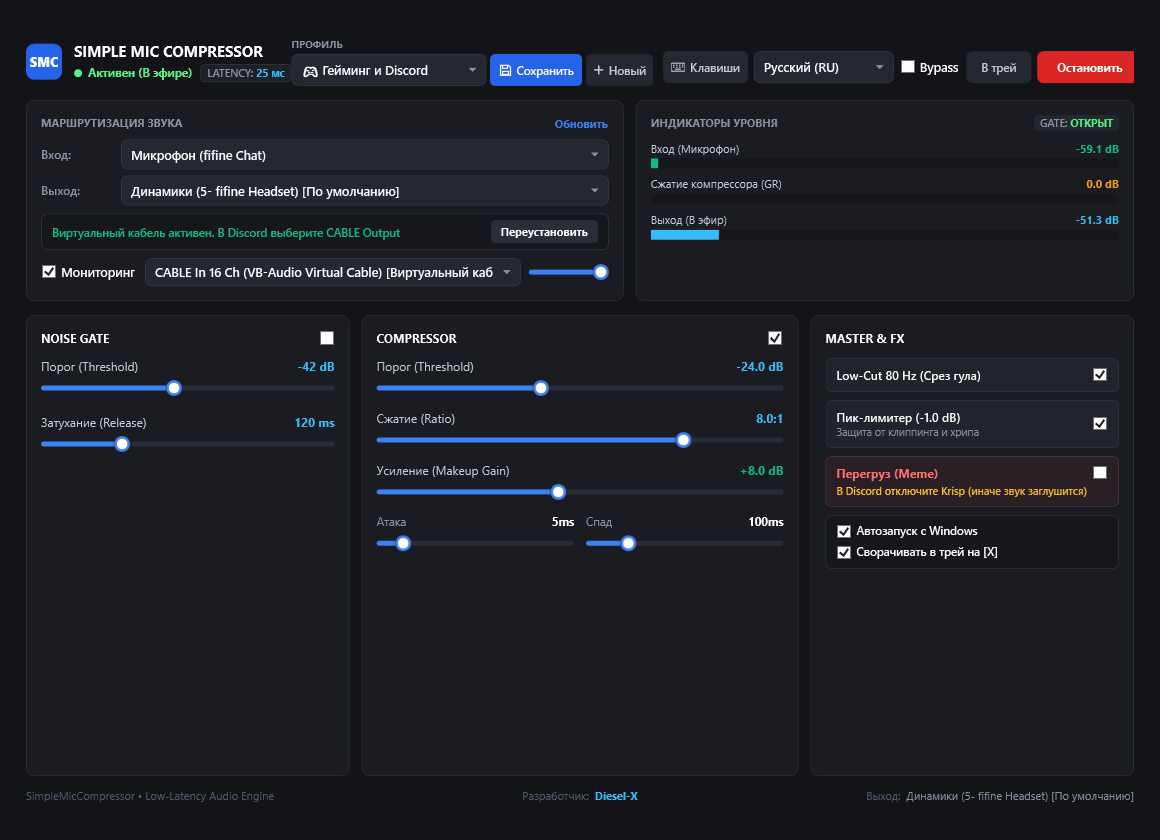
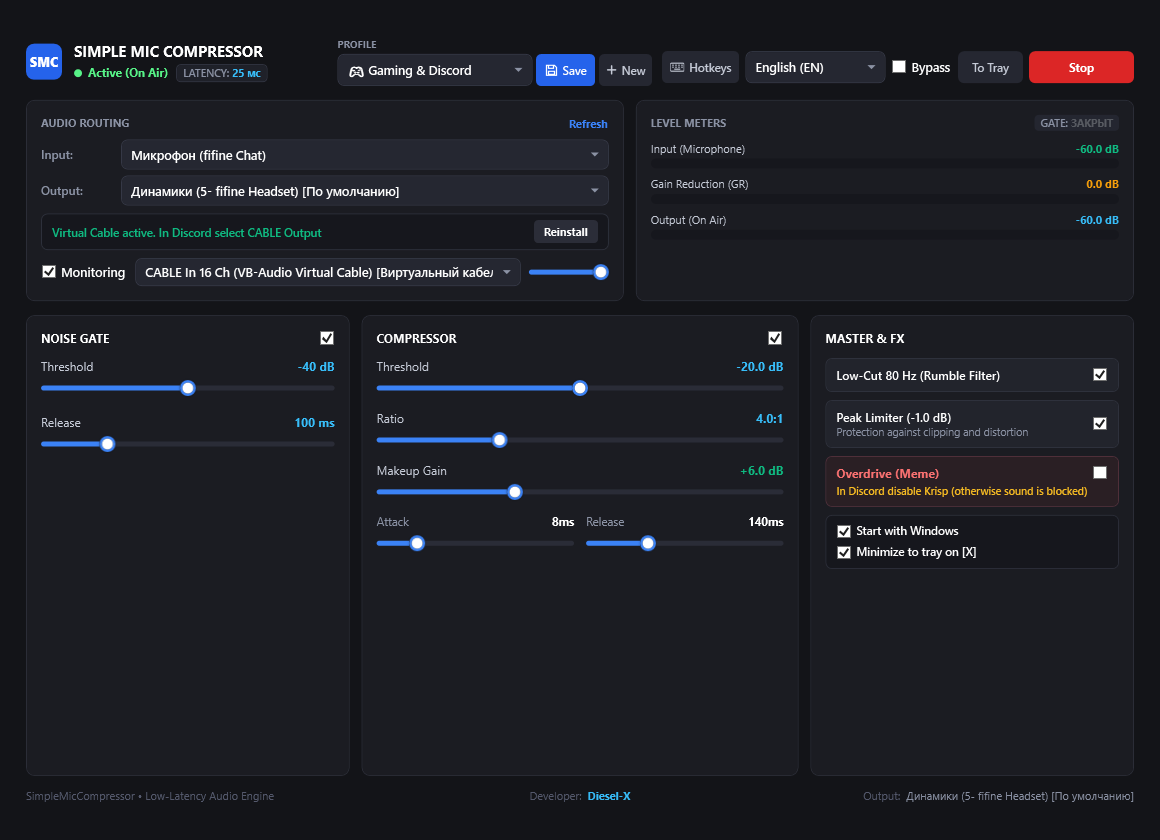
Update screenshots with English and Russian localizations and fix README links

diff --git a/MainWindow.xaml.cs b/MainWindow.xaml.cs
@@ -71,11 +71,22 @@ public partial class MainWindow : Window
             // Check command line arguments
             string[] args = Environment.GetCommandLineArgs();
 
+            int langIdx = Array.FindIndex(args, a => a.Equals("--lang", StringComparison.OrdinalIgnoreCase));
+            if (langIdx != -1 && langIdx + 1 < args.Length)
+            {
+                string langCode = args[langIdx + 1].ToLowerInvariant();
+                var opt = vm.AvailableLanguages.FirstOrDefault(l => l.Code.Equals(langCode, StringComparison.OrdinalIgnoreCase));
+                if (opt != null)
+                {
+                    vm.SelectedLanguage = opt;
+                }
+            }
+
             if (args.Any(a => a.Equals("--screenshot", StringComparison.OrdinalIgnoreCase)))
             {
                 int idx = Array.FindIndex(args, a => a.Equals("--screenshot", StringComparison.OrdinalIgnoreCase));
                 string path = (idx + 1 < args.Length && !args[idx + 1].StartsWith("--")) ? args[idx + 1] : "assets/screenshot.png";
-                Dispatcher.BeginInvoke(System.Windows.Threading.DispatcherPriority.Loaded, new Action(() =>
+                Dispatcher.BeginInvoke(System.Windows.Threading.DispatcherPriority.ContextIdle, new Action(() =>
                 {
                     CaptureAndSave(path);
                     System.Windows.Application.Current.Shutdown();
@@ -87,9 +98,9 @@ public partial class MainWindow : Window
             {
                 int idx = Array.FindIndex(args, a => a.Equals("--screenshot-modal", StringComparison.OrdinalIgnoreCase));
                 string path = (idx + 1 < args.Length && !args[idx + 1].StartsWith("--")) ? args[idx + 1] : "assets/screenshot_modal.png";
-                vm.ProfileNameInput = "Стрим и Discord";
+                vm.ProfileNameInput = vm.SelectedLanguage?.Code == "en" ? "Streaming & Discord" : "Стрим и Discord";
                 vm.IsSaveProfileDialogVisible = true;
-                Dispatcher.BeginInvoke(System.Windows.Threading.DispatcherPriority.Loaded, new Action(() =>
+                Dispatcher.BeginInvoke(System.Windows.Threading.DispatcherPriority.ContextIdle, new Action(() =>
                 {
                     CaptureAndSave(path);
                     System.Windows.Application.Current.Shutdown();
@@ -102,7 +113,7 @@ public partial class MainWindow : Window
                 int idx = Array.FindIndex(args, a => a.Equals("--screenshot-hotkeys", StringComparison.OrdinalIgnoreCase));
                 string path = (idx + 1 < args.Length && !args[idx + 1].StartsWith("--")) ? args[idx + 1] : "assets/screenshot_hotkeys.png";
                 vm.IsHotkeysDialogVisible = true;
-                Dispatcher.BeginInvoke(System.Windows.Threading.DispatcherPriority.Loaded, new Action(() =>
+                Dispatcher.BeginInvoke(System.Windows.Threading.DispatcherPriority.ContextIdle, new Action(() =>
                 {
                     CaptureAndSave(path);
                     System.Windows.Application.Current.Shutdown();

diff --git a/README_RU.md b/README_RU.md
@@ -3,12 +3,12 @@
 <p align="center">
   <b>Language / Язык:</b>
   <br>
-  <a href="README.md">🇷🇺 Русский</a> &nbsp;|&nbsp; 
-  <a href="README_EN.md">🇬🇧 English</a>
+  <b>🇷🇺 Русский</b> &nbsp;|&nbsp; 
+  <a href="README.md">🇬🇧 English</a>
 </p>
 
 <p align="center">
-  <img src="assets/screenshot_main.png" alt="SimpleMicCompressor Interface" width="850" />
+  <img src="assets/screenshot_main_ru.png" alt="Интерфейс SimpleMicCompressor" width="850" />
 </p>
 
 <p align="center">
@@ -22,6 +22,8 @@
 
 **SimpleMicCompressor** — системный процессор микрофона в реальном времени для **Discord**, **стримов** и **соревновательных игр** (CS2, Valorant, Apex, Warzone). Выравнивает громкость голоса, срезает клики мыши и гул, предотвращает оглушающие крики и защищает от клиппинга с нулевым влиянием на FPS.
 
+**Автор:** [Diesel-X](https://github.com/Diesel-x)  
+**Репозиторий:** [github.com/Diesel-x/SimpleMicCompressor](https://github.com/Diesel-x/SimpleMicCompressor)  
 **Версия:** `1.0 Release`
 
 ---
@@ -63,6 +65,10 @@
    * Выберите микрофон: **CABLE Output (VB-Audio Virtual Cable)**.
    * Выключите встроенный Krisp/AGC в Discord для максимальной чистоты голоса.
 
+<p align="center">
+  <img src="assets/screenshot_modal_ru.png" alt="Окно сохранения профиля" width="650" />
+</p>
+
 ---
 
 ## ⌨ Глобальные горячие клавиши (Hotkeys)
@@ -74,6 +80,10 @@
 | **Байпас (Bypass)** | `Ctrl + Shift + B` | Мгновенно отключает эффекты, пропуская чистый микрофон |
 | **Перегруз (Meme Mode)** | `Ctrl + Shift + M` | Включает мемный звук «уничтоженного микрофона» |
 | **Заглушить (Mute)** | `Ctrl + Shift + X` | Аппаратный мгновенный мут звука с индикацией |
+
+<p align="center">
+  <img src="assets/screenshot_hotkeys_ru.png" alt="Окно настройки горячих клавиш" width="650" />
+</p>
 
 ---
 
@@ -90,5 +100,5 @@
 ## 📄 Лицензия и авторство
 
 * **Автор:** [Diesel-X](https://github.com/Diesel-x)
-* **Проект:** [Simple_Mic_Compressor](https://github.com/Diesel-x/Simple_Mic_Compressor)
+* **Проект:** [SimpleMicCompressor](https://github.com/Diesel-x/SimpleMicCompressor)
 * **Лицензия:** [MIT License](LICENSE)

diff --git a/README.md b/README.md
@@ -3,12 +3,12 @@
 <p align="center">
   <b>Language / Язык:</b>
   <br>
-  <a href="README.md">🇷🇺 Русский</a> &nbsp;|&nbsp; 
-  <a href="README_EN.md">🇬🇧 English</a>
+  <a href="README_RU.md">🇷🇺 Русский</a> &nbsp;|&nbsp; 
+  <b>🇬🇧 English</b>
 </p>
 
 <p align="center">
-  <img src="assets/screenshot_main.png" alt="SimpleMicCompressor Interface" width="850" />
+  <img src="assets/screenshot_main_en.png" alt="SimpleMicCompressor Interface" width="850" />
 </p>
 
 <p align="center">
@@ -23,7 +23,7 @@
 **SimpleMicCompressor** is an ultra-fast real-time system microphone audio processor designed for **Discord**, **streaming**, and **competitive games** (CS2, Valorant, Apex Legends, Warzone). It evens out voice volume dynamics, removes mouse clicks and background hum, dampens loud screaming, and protects against digital clipping with zero impact on gaming FPS.
 
 **Author:** [Diesel-X](https://github.com/Diesel-x)  
-**Repository:** [github.com/Diesel-x/Simple_Mic_Compressor](https://github.com/Diesel-x/Simple_Mic_Compressor)  
+**Repository:** [github.com/Diesel-x/SimpleMicCompressor](https://github.com/Diesel-x/SimpleMicCompressor)  
 **Version:** `1.0 Release`
 
 ---
@@ -65,6 +65,10 @@
    * Select your input device: **CABLE Output (VB-Audio Virtual Cable)**.
    * Disable Discord's Krisp / Automatic Gain Control (AGC) for pristine natural sound.
 
+<p align="center">
+  <img src="assets/screenshot_modal_en.png" alt="Save Custom Profile Dialog" width="650" />
+</p>
+
 ---
 
 ## ⌨ Global Hotkeys
@@ -76,6 +80,10 @@ Operates seamlessly across fullscreen games without needing to `Alt+Tab`:
 | **Bypass** | `Ctrl + Shift + B` | Instantly bypasses DSP chain and transmits dry audio |
 | **Meme Mode** | `Ctrl + Shift + M` | Toggles the infamous distorted mic overdrive sound |
 | **Mute** | `Ctrl + Shift + X` | Instant zero-latency DSP hardware mute with tray badge |
+
+<p align="center">
+  <img src="assets/screenshot_hotkeys_en.png" alt="Hotkey Configuration Window" width="650" />
+</p>
 
 ---
 
@@ -92,5 +100,5 @@ Operates seamlessly across fullscreen games without needing to `Alt+Tab`:
 ## 📄 License & Credits
 
 * **Author:** [Diesel-X](https://github.com/Diesel-x)
-* **Project:** [Simple_Mic_Compressor](https://github.com/Diesel-x/Simple_Mic_Compressor)
+* **Project:** [SimpleMicCompressor](https://github.com/Diesel-x/SimpleMicCompressor)
 * **License:** [MIT License](LICENSE)
